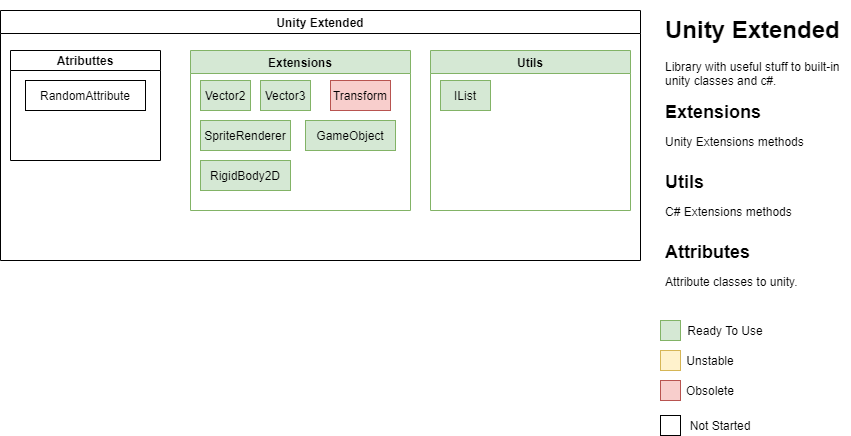
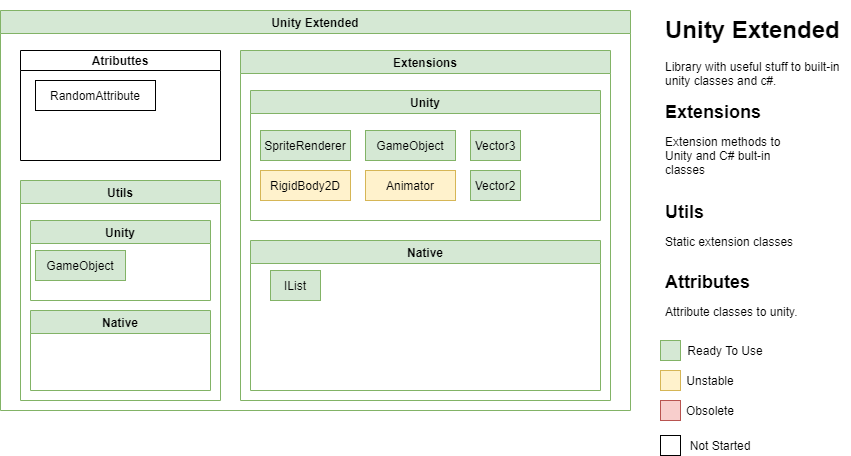
New architeture, GameObject Utils added ,Transform2D Removed

diff --git a/Assets/Unity Extended/Scripts/Utils/Unity/GameObjectUtils.cs b/Assets/Unity Extended/Scripts/Utils/Unity/GameObjectUtils.cs
@@ -1,0 +1,50 @@
+using UnityEngine;
+
+namespace UnityExtended.Utils.Unity
+{
+    /// <summary>
+    /// Static class to handle GameObjects in Scene
+    /// </summary>
+    public static class GameObjectUtils
+    {
+        /// <summary>
+        /// Gets the current count of every GameObject of type in scene
+        /// </summary>
+        /// <typeparam name="T">Type of the GameObjects</typeparam>
+        /// <param name="disabled">Define if will search disabled GameObjects</param>
+        /// <returns>returns the count of every object of a type in scene</returns>
+        public static int InstanceCount<T>(bool disabled = false) where T : MonoBehaviour
+        {
+            T[] instances = GameObject.FindObjectsOfType<T>();
+            if (disabled)
+                return instances.Length;
+
+            var count = 0;
+            foreach (var instance in instances)
+                count = instance.isActiveAndEnabled ? count + 1 : count;
+
+            return count;
+        }
+
+        /// <summary>
+        /// Gets the current count of every GameObject of tag in scene
+        /// </summary>
+        /// <param name="tag">Tag of the gameobjects</param>
+        /// <param name="disabled">Define if will search disabled GameObjects</param>
+        /// <returns>returns the count of every object of a tag in scene</returns>
+        public static int InstanceCount(string tag, bool disabled = false)
+        {
+            if(tag == null) throw new System.ArgumentNullException("Tag cannot be null");
+
+            GameObject[] instances = GameObject.FindGameObjectsWithTag(tag);
+            if (disabled)
+                return instances.Length;
+
+            var count = 0;
+            foreach (var instance in instances)
+                count = instance.activeInHierarchy ? count + 1 : count;
+
+            return count;
+        }
+    }
+}

diff --git a/Assets/Unity Extended/Scripts/Extensions/Unity/Vector3Extensions.cs b/Assets/Unity Extended/Scripts/Extensions/Unity/Vector3Extensions.cs
@@ -1,0 +1,49 @@
+using System;
+using UnityEngine;
+
+namespace UnityExtended.Extensions.Unity
+{
+    public static class Vector3Extension
+    {
+        public static Vector3 ToAbsolute(this Vector3 vector3)
+        {
+            int x = Convert.ToInt32(Math.Abs(vector3.x));
+            int y = Convert.ToInt32(Math.Abs(vector3.y));
+            int z = Convert.ToInt32(Math.Abs(vector3.z));
+            return new Vector3(x, y,z);
+        }
+
+        public static void FromAngle(this Vector3 vector3, int angle)
+        {
+            float angleRad = angle * (Mathf.PI / 180f);
+            vector3.x = Mathf.Cos(angleRad);
+            vector3.y = Mathf.Sin(angleRad);
+        }
+
+        /// <summary>
+        /// Return the absolute angle of the target vector2
+        /// </summary>
+        /// <param name="vector2"></param>
+        /// <param name="target"></param>
+        /// <returns>The angle torwards target</returns>
+        public static float GetAngle(this Vector3 vector3, Vector3 target)
+        {
+            var direction = target - vector3;
+            return direction.ToAngle();
+        }
+
+        /// <summary>
+        /// Converts the current Vector 2 to angle
+        /// </summary>
+        /// <param name="vector2"></param>
+        /// <returns></returns>
+        public static float ToAngle(this Vector3 vector3)
+        {
+            float angle = Mathf.Atan2(vector3.y, vector3.x) * Mathf.Rad2Deg;
+            if (angle < 0) angle += 360;
+
+            return angle;
+        }
+
+    }
+}

diff --git a/Assets/Unity Extended/Scripts/Extensions/Unity/AnimatorExtensions.cs b/Assets/Unity Extended/Scripts/Extensions/Unity/AnimatorExtensions.cs
@@ -1,0 +1,15 @@
+using UnityEngine;
+
+namespace UnityExtended.Extensions.Unity
+{
+    public static class AnimatorExtensions
+    {
+        public static void SetRandomParameter(this Animator anim,string name,int variations)
+        {
+            if(variations <= 0) throw new System.Exception("Variations cannot be 0 or less");
+            if(name == null) throw new System.ArgumentNullException("Name param cannot be null");
+            
+            anim.SetInteger(name,Random.Range(0,variations+1));
+        }
+    }
+}

diff --git a/Assets/Unity Extended/Scripts/Extensions/Unity/GameObjectExtensions.cs b/Assets/Unity Extended/Scripts/Extensions/Unity/GameObjectExtensions.cs
@@ -1,7 +1,7 @@
 using System.Collections.Generic;
 using UnityEngine;
 
-namespace UnityExtended.Extensions
+namespace UnityExtended.Extensions.Unity
 {
     public static class GameObjectExtensions
     {

diff --git a/Assets/Unity Extended/Scripts/Extensions/Native/IListExtensions.cs b/Assets/Unity Extended/Scripts/Extensions/Native/IListExtensions.cs
@@ -1,7 +1,7 @@
 using System.Collections.Generic;
 using UnityEngine;
 
-namespace UnityExtended.Utils
+namespace UnityExtended.Extensions.Native
 {
     public static class IListExtensions
     {

diff --git a/Assets/Unity Extended/Scripts/Extensions/Unity/Vector2Extensions.cs b/Assets/Unity Extended/Scripts/Extensions/Unity/Vector2Extensions.cs
@@ -1,7 +1,7 @@
 using System;
 using UnityEngine;
 
-namespace UnityExtended.Extensions
+namespace UnityExtended.Extensions.Unity
 {
     public static class Vector2Extension
     {

diff --git a/Assets/Unity Extended/Scripts/Extensions/Unity/SpriteRendererExtension.cs b/Assets/Unity Extended/Scripts/Extensions/Unity/SpriteRendererExtension.cs
@@ -1,6 +1,6 @@
 using UnityEngine;
 
-namespace UnityExtended.Extensions
+namespace UnityExtended.Extensions.Unity
 {
     public static class SpriteRendererExtension
     {

diff --git a/Assets/Unity Extended/Scripts/Extensions/Unity/RigidBody2DExtensions.cs b/Assets/Unity Extended/Scripts/Extensions/Unity/RigidBody2DExtensions.cs
@@ -1,0 +1,9 @@
+using UnityEngine;
+
+namespace UnityExtended.Extensions.Unity
+{
+    public static class Rigidbody2DExtension
+    {
+        
+    }
+}

diff --git a/Assets/Unity Extended/Scripts/Extensions/Unity/Transform2DExtensions.cs b/Assets/Unity Extended/Scripts/Extensions/Unity/Transform2DExtensions.cs
@@ -1,0 +1,9 @@
+using UnityEngine;
+
+namespace UnityExtended.Extensions.Unity
+{
+    public static class Transform2DExtension
+    {
+        
+    }
+}
